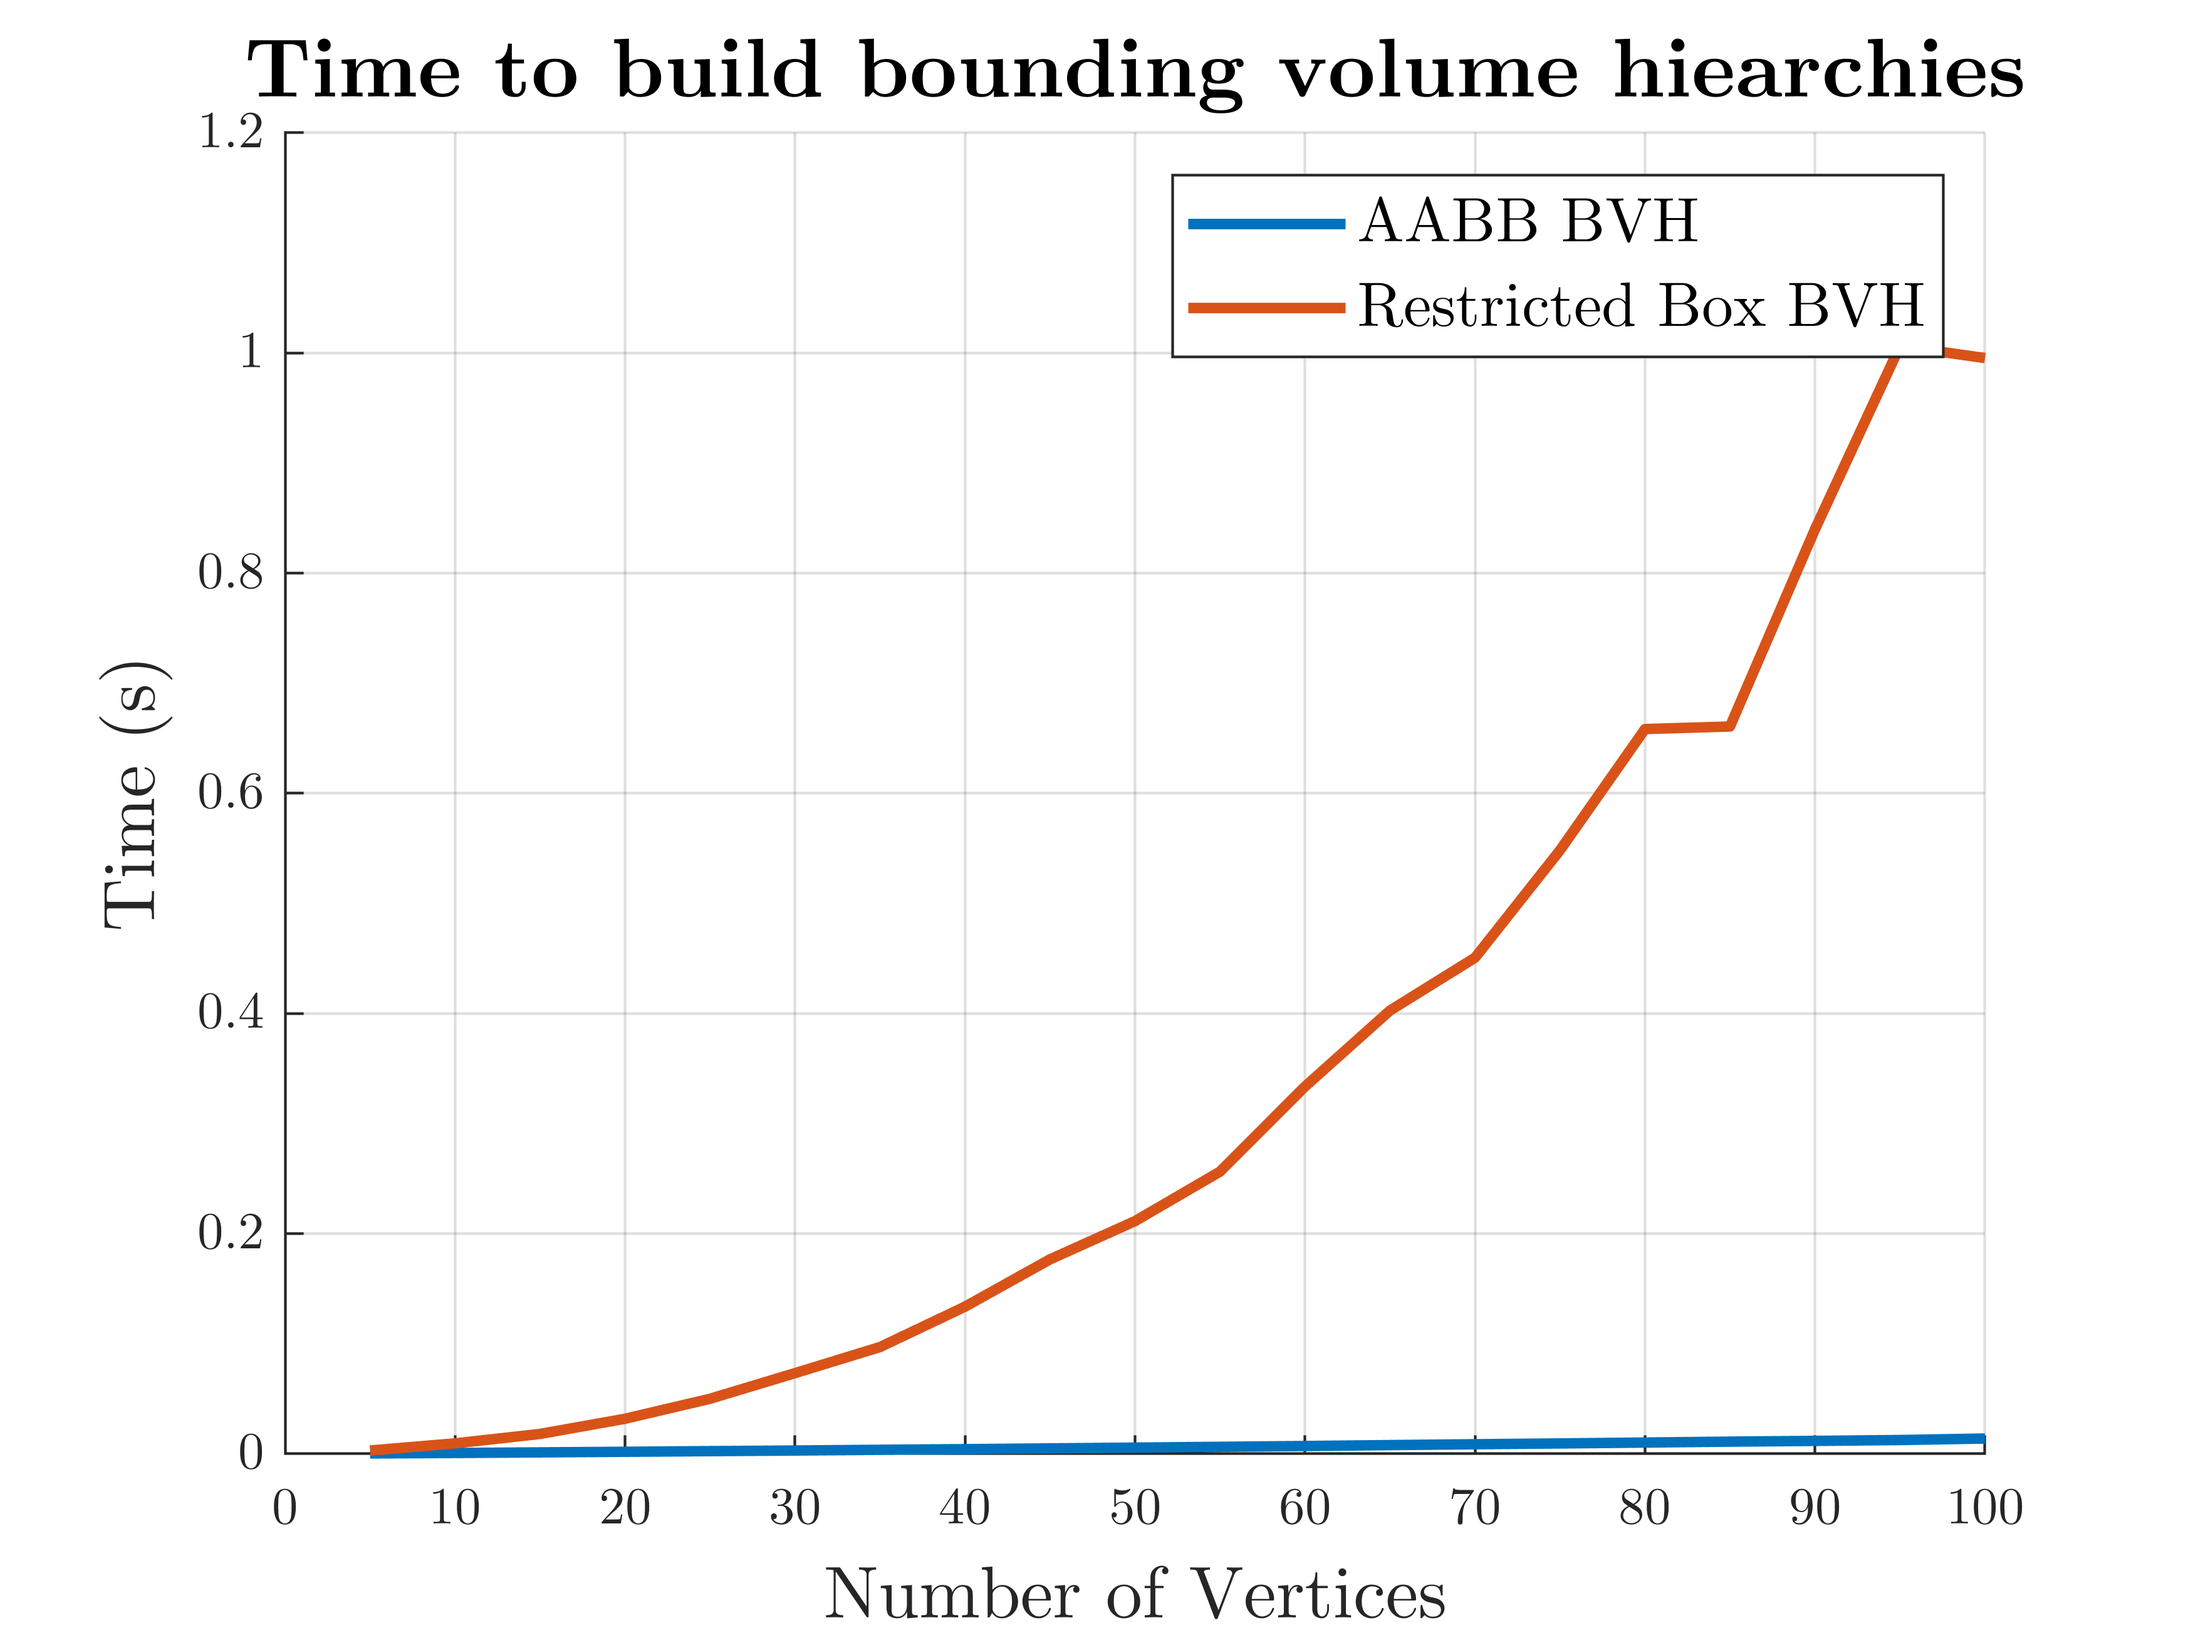
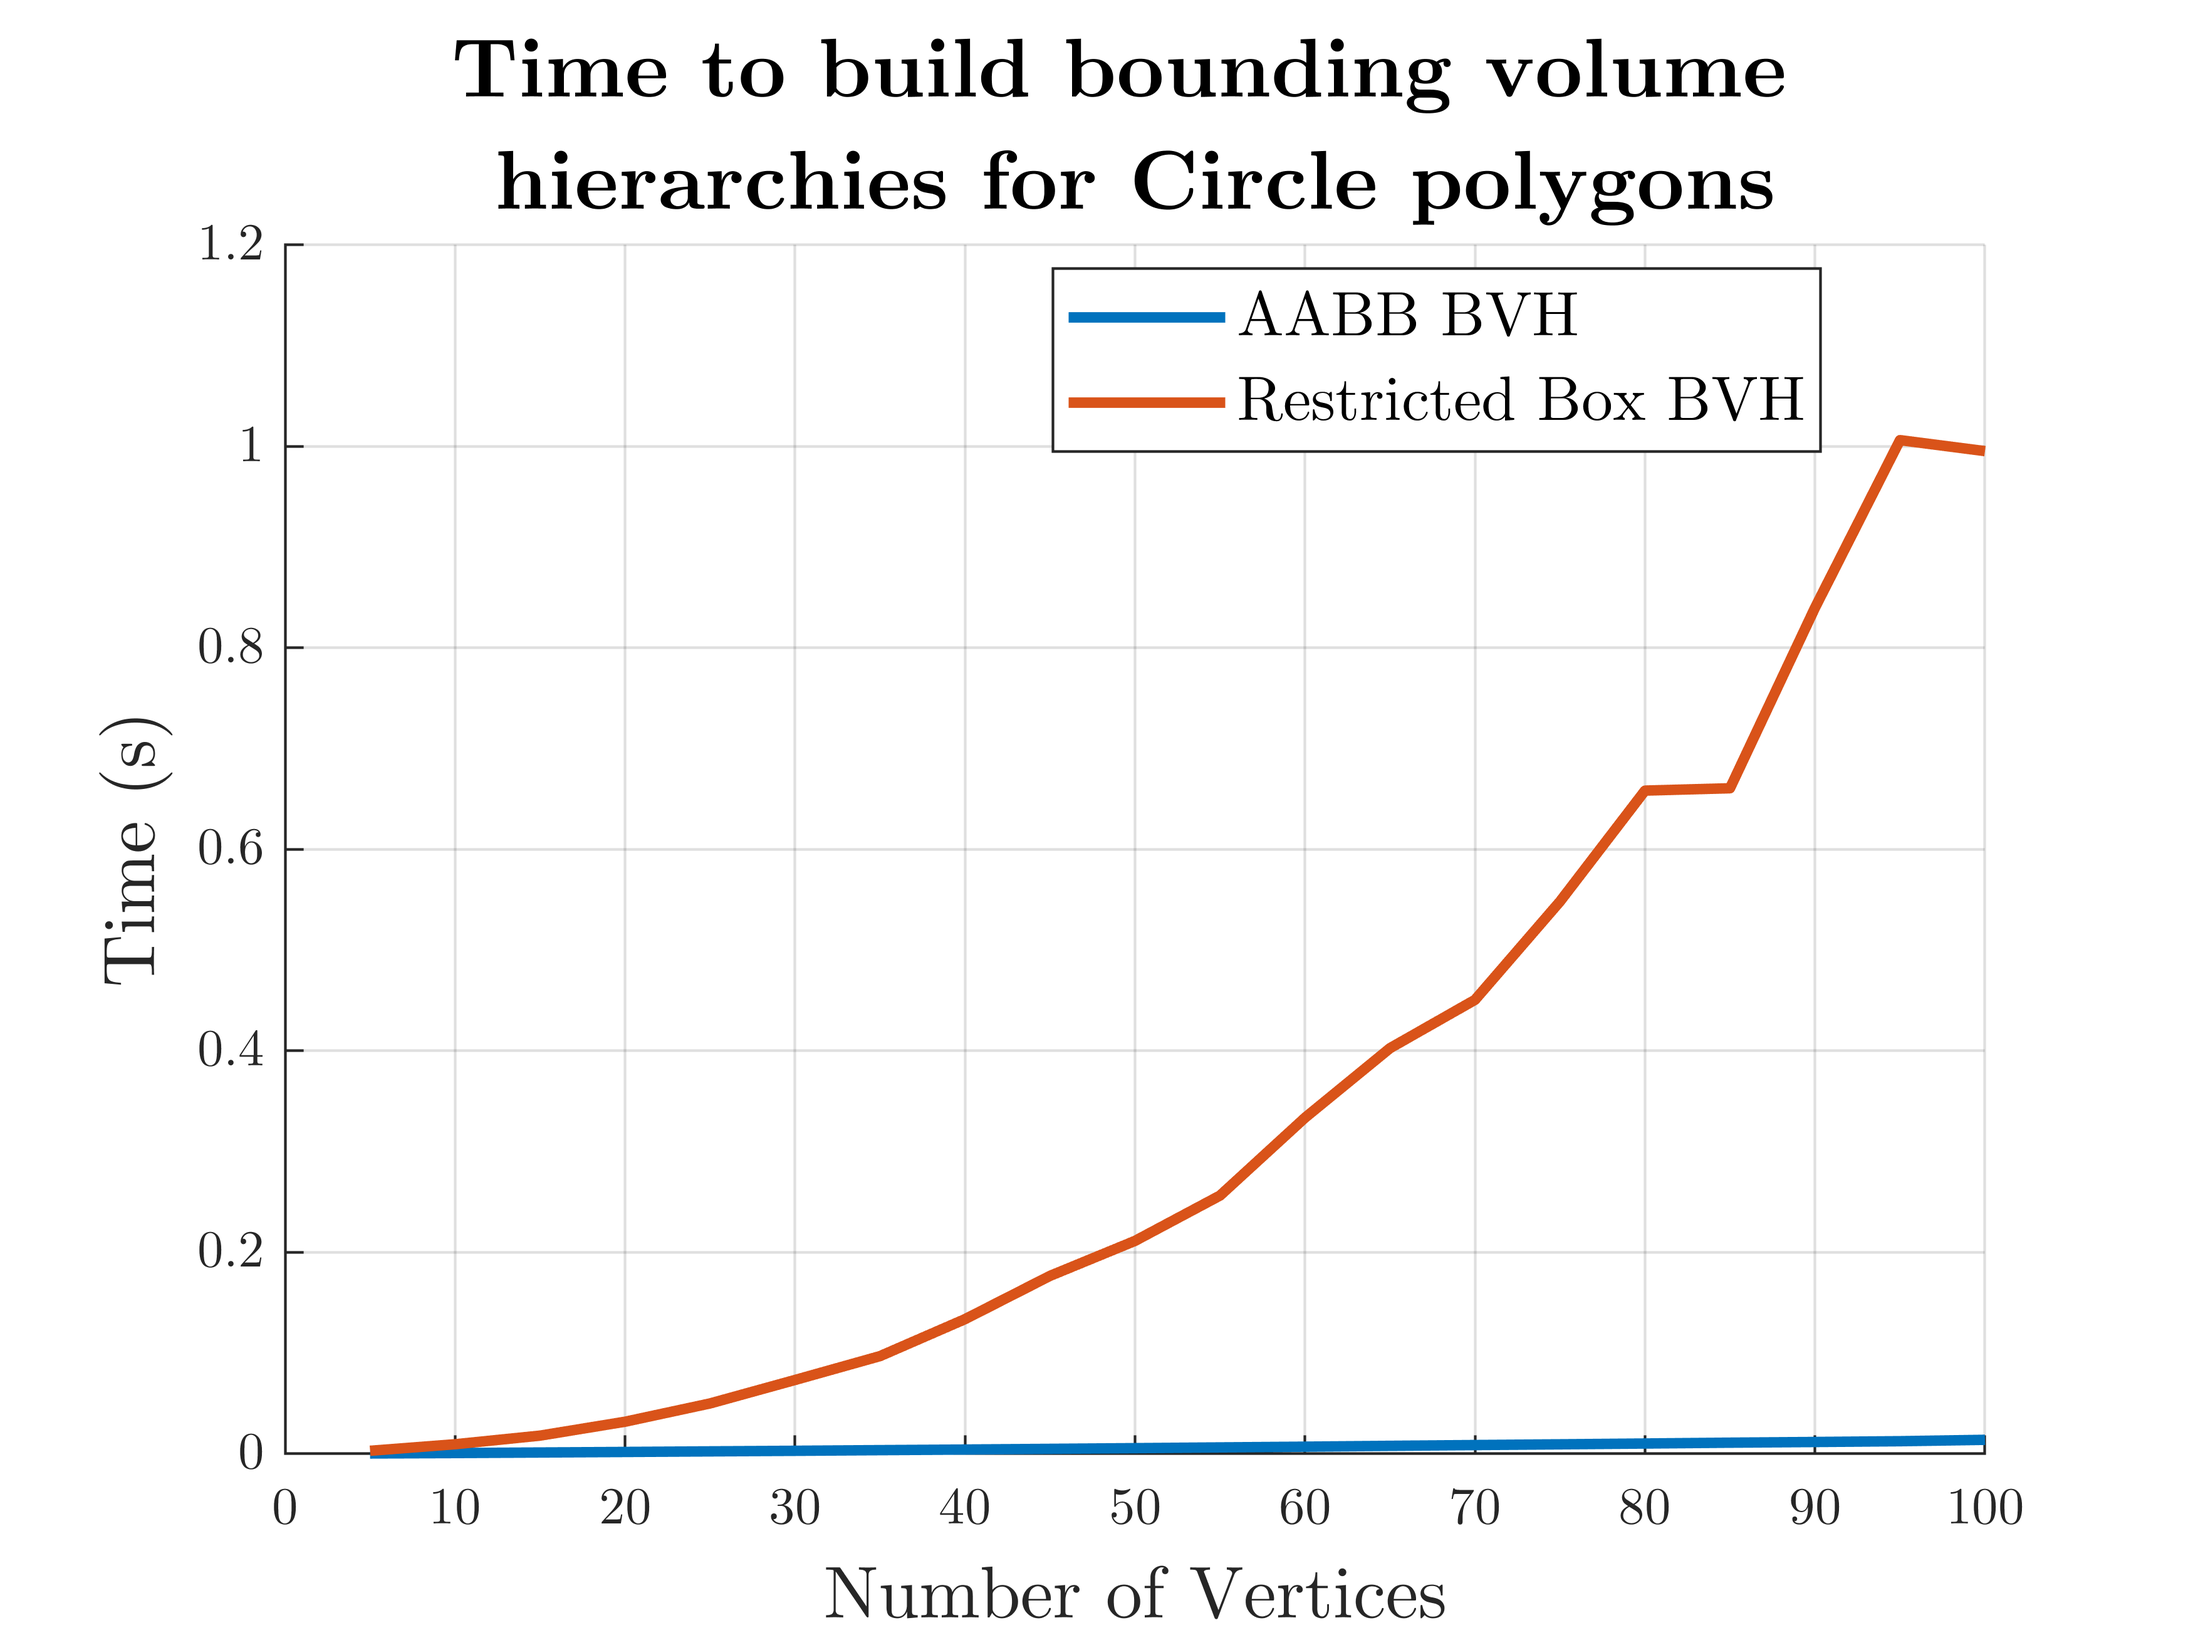
Changed how figure titles are generated

diff --git a/Experiments/PlotResults.m b/Experiments/PlotResults.m
@@ -1,6 +1,6 @@
 clc;clear;close all;
 version = 3;
-folder = "Results/Circle/";
+folder = "Results/Square/";
 %% Plot Build Results
 loadloc = sprintf("%sBuildAABBResults_v%d",folder,version);
 load(loadloc)
@@ -13,7 +13,8 @@ grid on
 plot(numVertices, mean(buildAABBResults,2),'LineWidth',2,'DisplayName',"AABB BVH")
 plot(numVertices, mean(buildRestrictedResults,2),'LineWidth',2,'DisplayName',"Restricted Box BVH")
 legend('FontSize',12)
-title("Time to build bounding volume hiearchies",'FontSize',16)
+str = sprintf("Time to build bounding volume \nhierarchies for %s polygons",erase(erase(folder,"Results/"),"/"));
+title(str,'FontSize',16)
 xlabel("Number of Vertices",'FontSize',14)
 ylabel("Time (s)",'FontSize',14)
 
@@ -47,7 +48,8 @@ plot(numVertices, mean(collisionAABBResults,2),'LineWidth',2,'DisplayName',"AABB
 plot(numVertices, mean(collisionRestrictedResults,2),'LineWidth',2,'DisplayName',"Restricted Box BVH")
 plot(numVertices, mean(collisionBruteForceResults,2),'LineWidth',2,'DisplayName',"Brute Force")
 legend('FontSize',12)
-title(sprintf("Time to perform heavy collision detection"),'FontSize',16)
+str = sprintf("Time to perform heavy collision  \ndetection for %s polygons",erase(erase(folder,"Results/"),"/"));
+title(str,'FontSize',16)
 xlabel("Number of Vertices",'FontSize',14)
 ylabel("Time (s)",'FontSize',14)
 
@@ -84,7 +86,8 @@ plot(numVertices, mean(collisionAABBResults,2),'LineWidth',2,'DisplayName',"AABB
 plot(numVertices, mean(collisionRestrictedResults,2),'LineWidth',2,'DisplayName',"Restricted Box BVH")
 plot(numVertices, mean(collisionBruteForceResults,2),'LineWidth',2,'DisplayName',"Brute Force")
 legend('FontSize',12)
-title(sprintf("Time to perform light collision detection"),'FontSize',16)
+str = sprintf("Time to perform light collision  \ndetection for %s polygons",erase(erase(folder,"Results/"),"/"));
+title(str,'FontSize',16)
 xlabel("Number of Vertices",'FontSize',14)
 ylabel("Time (s)",'FontSize',14)
 ylim([0,0.12])
